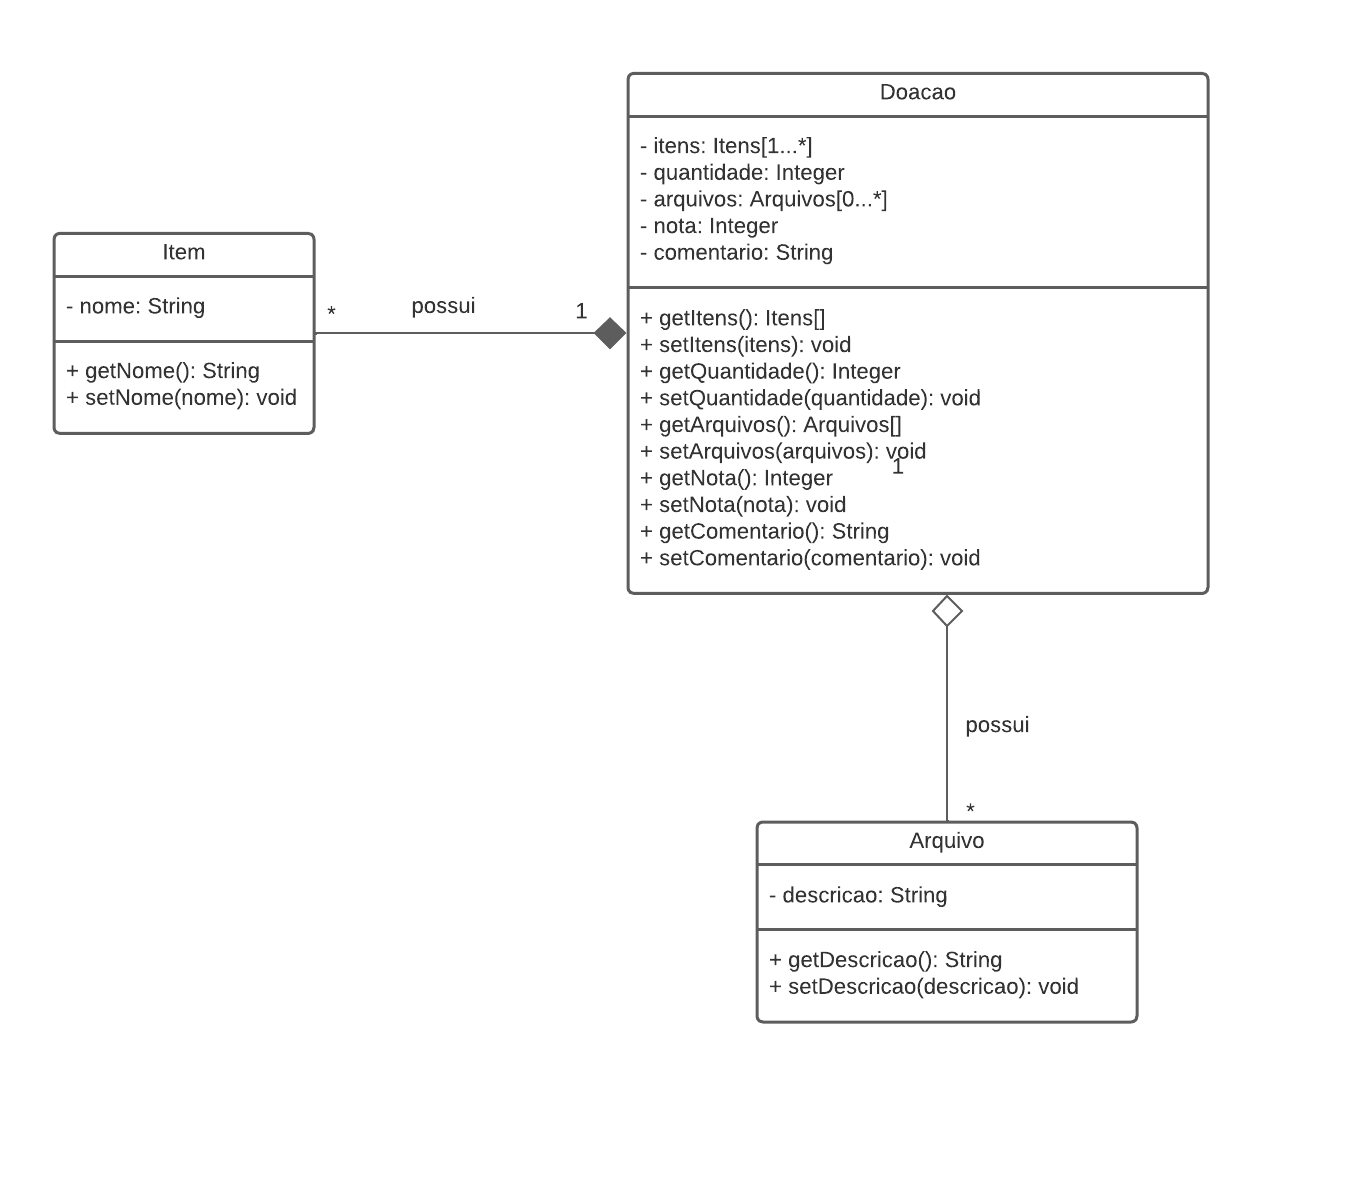
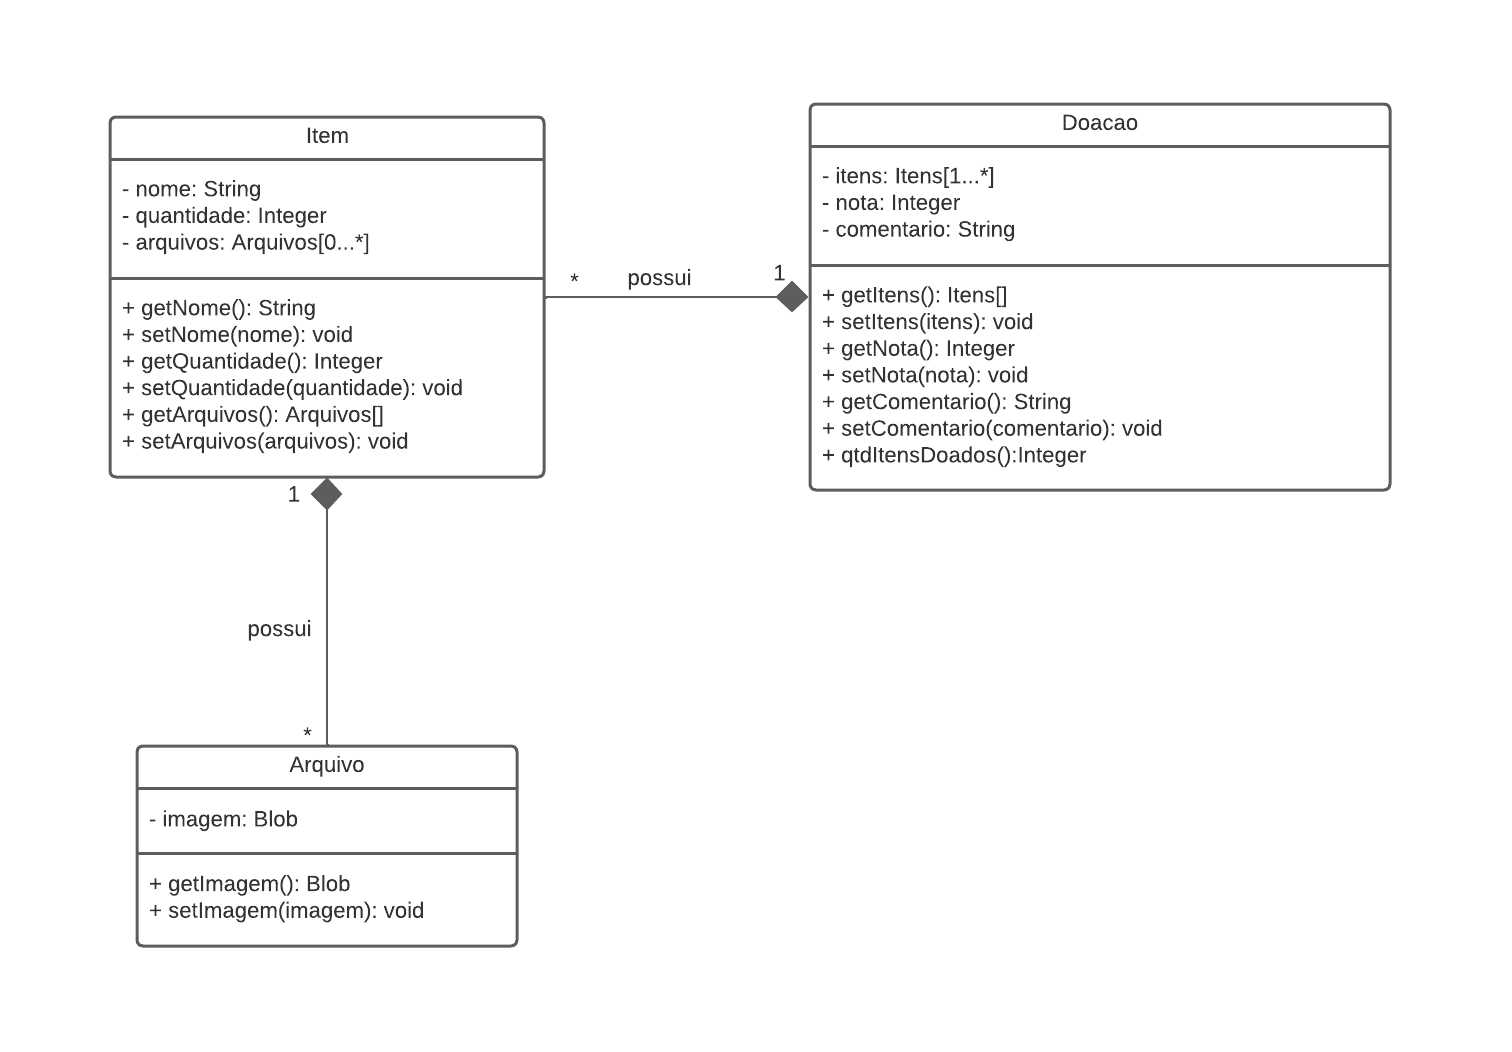
Corrigindo diagrama do GRASP criador

diff --git a/docs/PadroesDeProjeto/3.1.GRASPs.md b/docs/PadroesDeProjeto/3.1.GRASPs.md
@@ -9,6 +9,7 @@
 | 0.3    | Detalhamento do GRASP Especialista no Projeto         | Felipe Agustini e Victor Buendia | 31/07/2022 |
 | 0.4    | Text GRASP Alta Coesão                                | Antonio Neto e Júlia Farias      | 01/08/2022 |
 | 0.5    | Criando implementação em código de GRASP Especialista | Victor Buendia                   | 02/08/2022 |
+| 0.6    | Corrigindo diagrama do Grasp criador                  | Felipe Agustini e Antonio Neto   | 02/08/2022 |
 
 ## 3.1.1. GRASP
 ### 3.1.1.1. Introdução
@@ -30,7 +31,7 @@ Segundo BACALÁ [[BACALÁ]](#ref1). A responsabilidade da criação de um objeto
 - B usa A;
 - B tem os dados necessários para a inicialização de A;
 
-**Utilização no projeto**: Pode ser visto na seleção abaixo do diagrama de classe da aplicação que a responsabilidade da criação do objeto 'Arquivo' e o objeto 'item' recaem sobre a classe 'Doacao'. 
+**Utilização no projeto**: Pode ser visto na seleção abaixo do diagrama de classe da aplicação que a responsabilidade da criação do objeto 'Arquivo' recai sobre a classe 'Item', e a craiação do objeto 'Item' recai sobre a classe 'Doacao'. 
 
 ![GRASP Criador](../imgs/GRASP_Criador_1.png)
 
